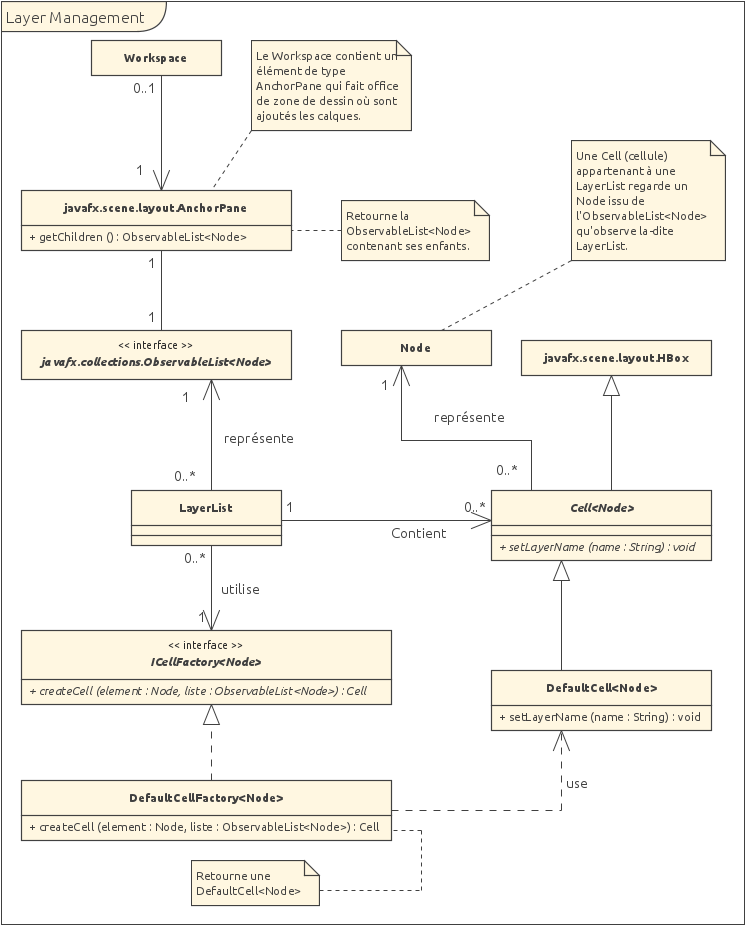
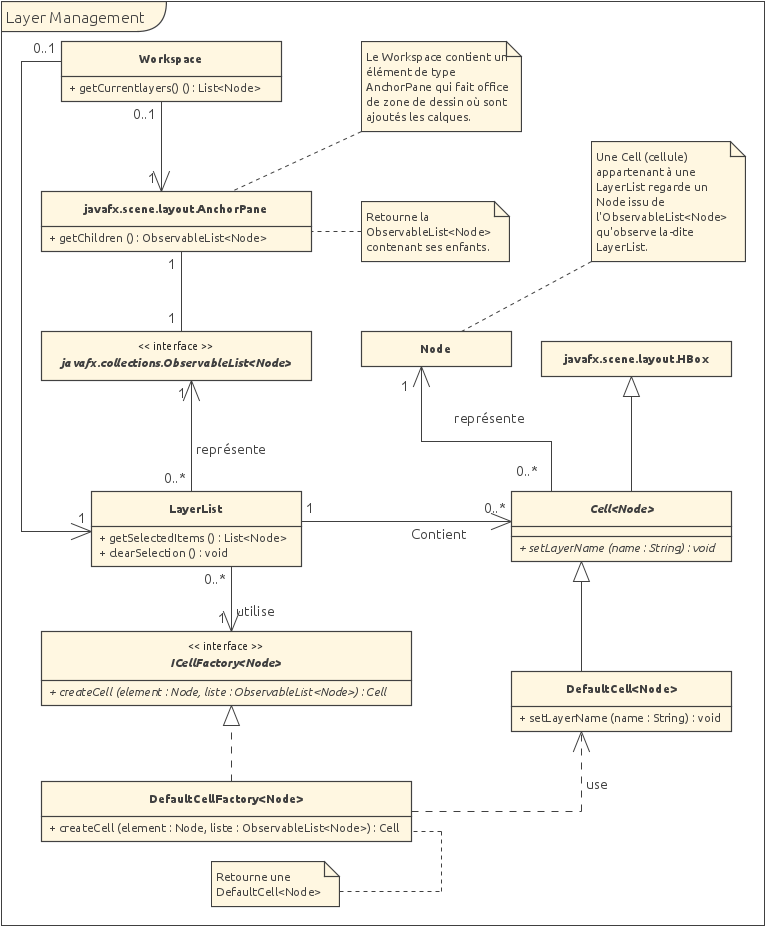
Finished talking about Layer management

diff --git a/0_gestion_projet/rapport/description_technique.tex b/0_gestion_projet/rapport/description_technique.tex
@@ -80,7 +80,7 @@ Pour les besoins de l'application, nous ne pouvions pas utiliser ces classes tel
 
 \subsubsection{Gestion des calques}
 
-Une des fonctionnalités indispensables de GEMMS est de permettre à l'utilisateur de gérer les calques de son document au moyen d'une liste dans un panneau de l'interface. Il s'agit d'une représentation visuelle de l'état du Scene Graph dans la branche de la zone de dessin dont nous parlons plus haut. Elle doit donc être en tout temps synchronisée avec l'état actuel du document et tout changement doit se répercuter dans ce listing de calques.
+Une des fonctionnalités indispensables de GEMMS est de permettre à l'utilisateur de gérer les calques de son document au moyen d'une liste dans un panneau de l'interface. Il s'agit d'une représentation visuelle de l'état du Scene Graph dans la branche de la zone de dessin dont nous parlons plus haut. Elle doit donc être en tout temps synchronisée avec l'état actuel du document et tout changement doit se répercuter dans cet affichage de calques.
 
 La classe ListView de JavaFX propose cette fonctionnalité. Malheureusement, ce composant n'étant pas paramétrable comme nous le souhaitions pour les besoins ergonomiques de l'application, nous avons dû implémenter notre propre système de gestion de calques. Il est cependant fortement inspiré du fonctionnement de ListView.
 
@@ -91,7 +91,7 @@ La classe ListView de JavaFX propose cette fonctionnalité. Malheureusement, ce 
 	\label{fig:layer_management}
 \end{figure}
 
-LayerList est une classe générique implémentée pour ce projet qui permet d'afficher sous forme de liste de cellules le contenu d'une ObservableList. La figure \ref{fig:layer_management} illustre la structure du Workspace et de sa LayerList. Dans cette représentation, toutes les classes sont instanciées avec Node comme paramètre générique pour une meilleure compréhension.
+LayerList est une classe générique implémentée pour ce projet qui permet d'afficher sous forme de liste de cellules le contenu d'une ObservableList. La figure \ref{fig:layer_management} illustre la structure du Workspace et de sa LayerList. Dans cette représentation, toutes les classes sont instanciées avec Node comme paramètre générique pour une meilleure compréhension. Les enfants d'un Node de type parent étant représentés sous la forme d'une ObservableList<Node> dans JavaFX, Layerlist peut ainsi gérer les calques du Workspace.
 
 LayerList hérite du composant VBox de JavaFX, ce qui permet de l'ajouter au Scene Graph. Dans GEMMS, elle observe les enfants de la zone de dessin du Workspace et est notifiée lorsqu'il y a un changement. Pour tout nouveau calque (Node) ajouté dans la liste, elle crée une nouvelle Cell (cellule) en utilisant le pattern de fabrication abstraite. Elle ajoute ces cellules dans un composant interne qui les affiche en colonne.
 
